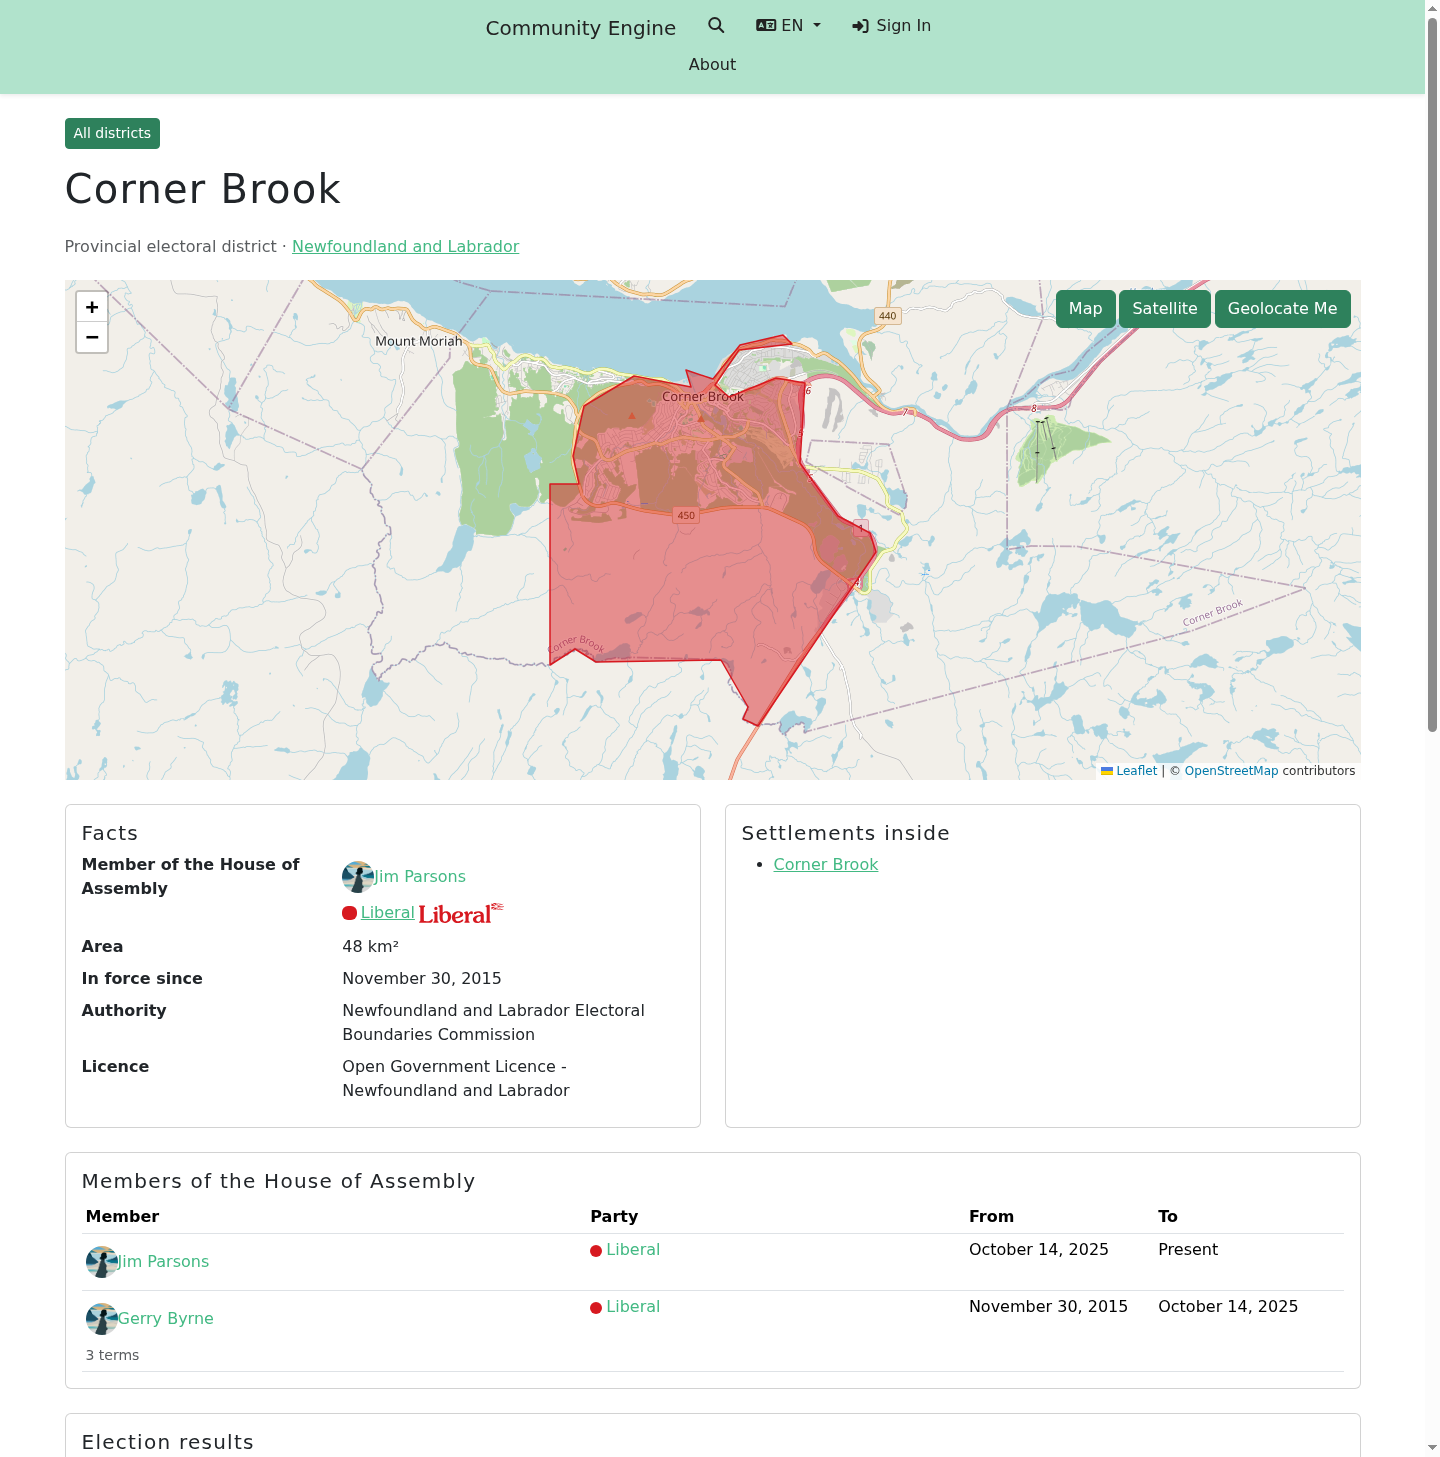
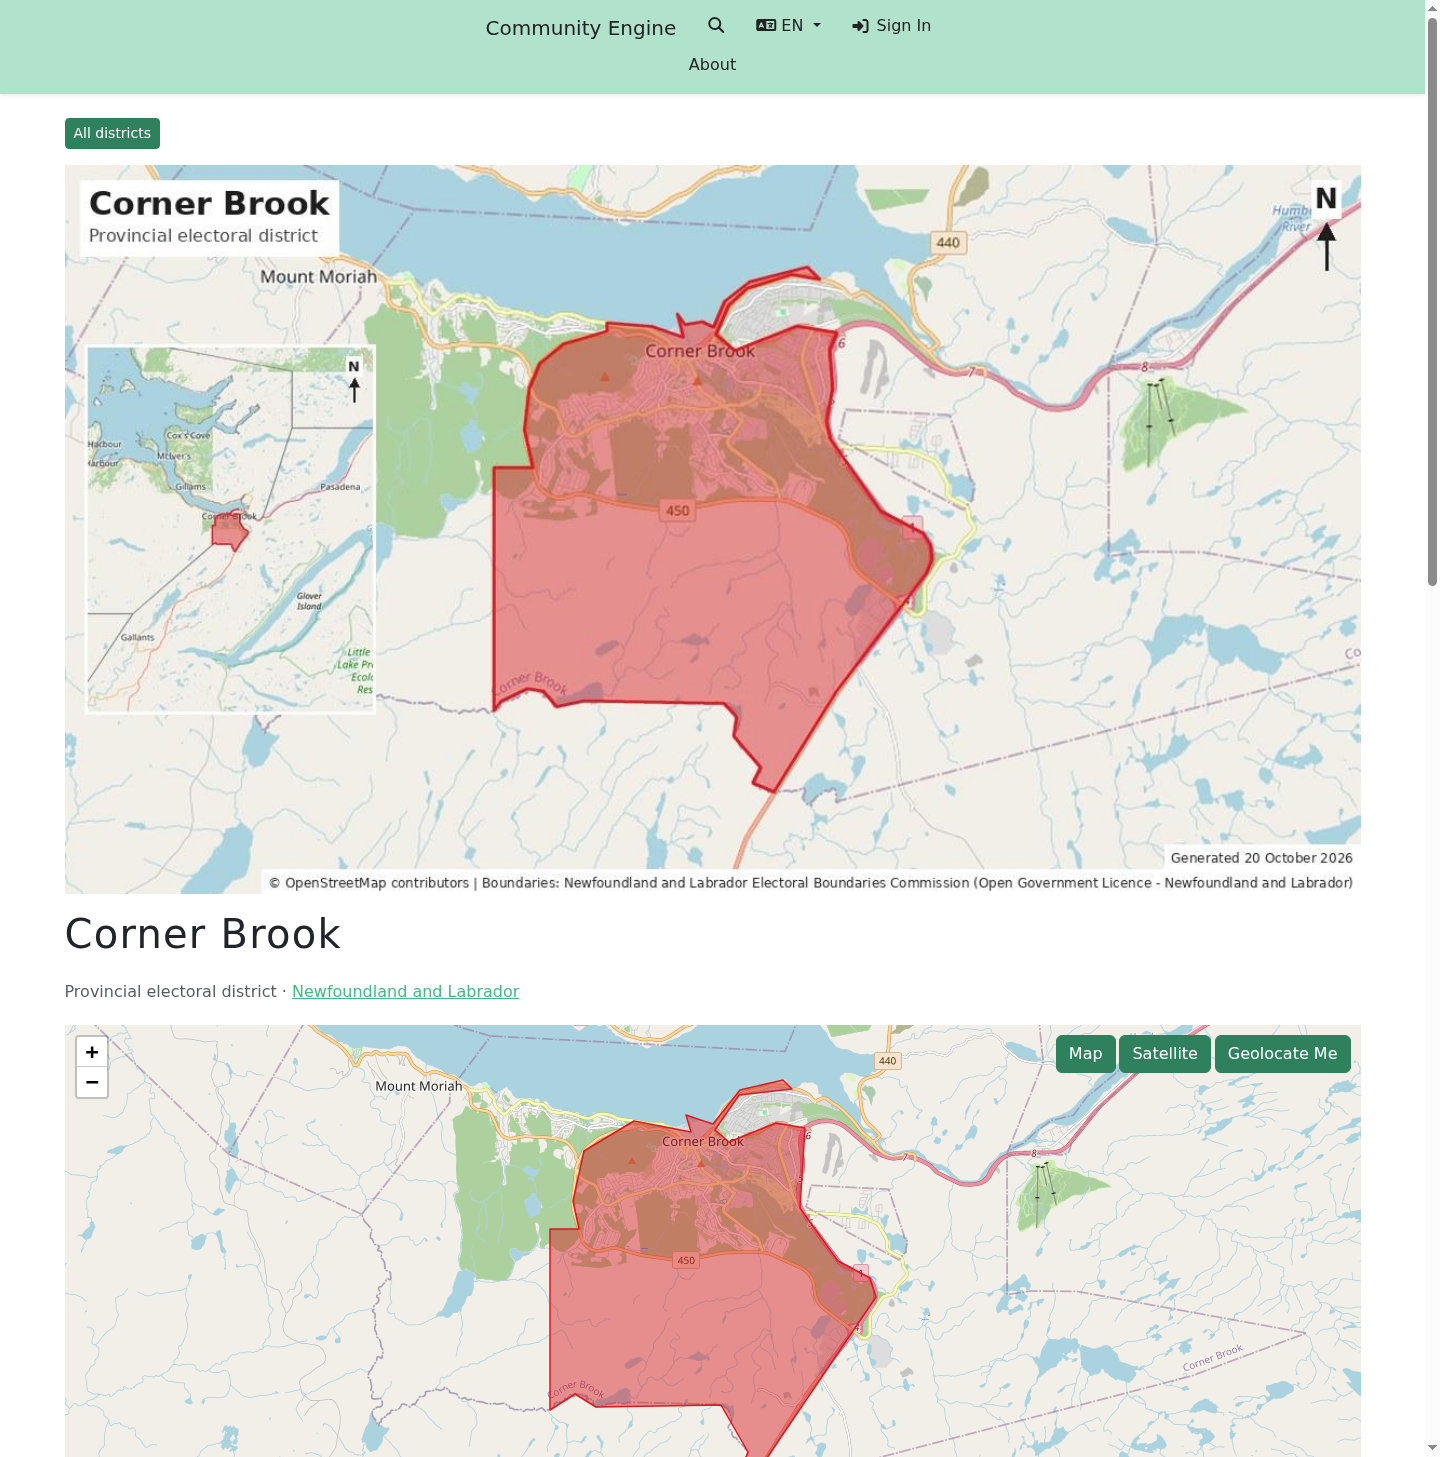
feat(districts): generated cover images with default fallback, cover area and card image
District show gets a cover area, the card uses the same image, and a default_cover_image attachment keeps the generated map when a custom cover is cleared. Districts with no cover show no placeholder image. Attachments use the CE cleanup concern; rake tasks export generator inputs and attach rendered covers (dry run by default).

diff --git a/app/assets/stylesheets/district_covers.scss b/app/assets/stylesheets/district_covers.scss
@@ -1,0 +1,9 @@
+/* District covers are 16:9 maps: show them whole instead of CE's 4:1 / 3:2 crops. */
+#district-cover.cover-image-container {
+  height: auto;
+  aspect-ratio: 16 / 9;
+}
+
+#districts-list .card-img-top {
+  aspect-ratio: 16 / 9;
+}

diff --git a/app/services/newfoundland_labrador_online/geography/district_cover_inputs.rb b/app/services/newfoundland_labrador_online/geography/district_cover_inputs.rb
@@ -1,0 +1,66 @@
+# frozen_string_literal: true
+
+module NewfoundlandLabradorOnline
+  module Geography
+    # Everything the cover generator (management-tool scripts/district_cover_images.py) needs per provincial
+    # district: simplified boundary, source credit, and the colour of the sitting member's current party (so a floor
+    # crossing shows), falling back to the party elected in the latest election when the seat is vacant.
+    class DistrictCoverInputs
+      SIMPLIFY_DEGREES = 0.0005
+
+      def self.call
+        new.call
+      end
+
+      def call
+        ProvincialElectoralDistrict.find_each.filter_map { |district| entry(district) }.to_h
+      end
+
+      private
+
+      def entry(district)
+        version = district.current_version
+        return unless version&.boundary
+
+        [district.name, { id: district.id, slug: district.identifier, kind: kind, color: color_for(district),
+                          authority: version.authority, license: version.license, geometry: geometry(version) }]
+      end
+
+      def kind
+        I18n.t('newfoundland_labrador_online.districts.show.kind', locale: :en)
+      end
+
+      def color_for(district)
+        party = sitting_party(district) || elected_party(district)
+        party ? party.display_color : PoliticalParty::FALLBACK_COLOR
+      end
+
+      def sitting_party(district)
+        sitting_parties[district.id]
+      end
+
+      def sitting_parties
+        @sitting_parties ||= Civic::Roster.current_holdings.to_h { |holding| [holding.region_id, holding.party_on] }
+      end
+
+      def elected_party(district)
+        return unless latest_election
+
+        Candidacy.joins(:electoral_contest, :mandate)
+                 .where(electoral_contests: { election_id: latest_election.id, region_id: district.id })
+                 .first&.political_party
+      end
+
+      def latest_election
+        @latest_election ||= Election.where(jurisdiction: 'provincial').order(:held_on).last
+      end
+
+      def geometry(version)
+        conn = ActiveRecord::Base.connection
+        sql = "SELECT ST_AsGeoJSON(ST_SimplifyPreserveTopology(#{conn.quote(version.boundary.as_text)}::geometry, " \
+              "#{SIMPLIFY_DEGREES}))"
+        JSON.parse(conn.select_value(sql))
+      end
+    end
+  end
+end

diff --git a/spec/services/newfoundland_labrador_online/geography/district_cover_spec.rb b/spec/services/newfoundland_labrador_online/geography/district_cover_spec.rb
@@ -1,0 +1,57 @@
+# frozen_string_literal: true
+
+require 'rails_helper'
+
+RSpec.describe NewfoundlandLabradorOnline::Geography::DistrictCover do
+  include RequestSpecHelper
+
+  let(:path) { Rails.root.join('spec/fixtures/nl_regions/two_districts.geojson') }
+  let(:district) { NewfoundlandLabradorOnline::ProvincialElectoralDistrict.find_by!(identifier: 'nl-ped-corner-brook') }
+  let(:record) { district.reload }
+  let(:jpeg) { Rails.root.join('spec/fixtures/files/cover.jpg') }
+
+  def attach(bytes: 'generated-bytes', filename: 'nl-ped-corner-brook.jpg')
+    described_class.call(region: district, io: StringIO.new(bytes), filename:)
+  end
+
+  def upload_custom
+    record.cover_image.attach(io: StringIO.new('custom-bytes'), filename: 'mine.jpg', content_type: 'image/jpeg')
+    record.save!
+  end
+
+  before do
+    configure_host_platform
+    NewfoundlandLabradorOnline::Geography::ProvincialDistrictLoader.new(path:).call
+  end
+
+  it 'stores the image as the default and as the cover, marked generated', :aggregate_failures do
+    expect(attach.status).to eq(:attached)
+    expect(record.cover_image.download).to eq('generated-bytes')
+    expect(record.default_cover_image.download).to eq('generated-bytes')
+    expect(record).to be_generated_cover
+  end
+
+  it 'replaces an earlier generated cover' do
+    attach(bytes: 'old')
+    attach(bytes: 'new')
+
+    expect(record.cover_image.download).to eq('new')
+  end
+
+  it 'never replaces an uploaded cover but refreshes the default', :aggregate_failures do
+    upload_custom
+
+    expect(attach.status).to eq(:kept_custom)
+    expect(record.cover_image.download).to eq('custom-bytes')
+    expect(record.default_cover_image.download).to eq('generated-bytes')
+  end
+
+  it 'restores the default when the uploaded cover is removed', :aggregate_failures do
+    attach
+    upload_custom
+    record.update!(remove_cover_image: '1')
+
+    expect(record.reload.cover_image.download).to eq('generated-bytes')
+    expect(record).to be_generated_cover
+  end
+end

diff --git a/spec/docs_screenshots/districts_spec.rb b/spec/docs_screenshots/districts_spec.rb
@@ -23,6 +23,15 @@ RSpec.describe 'Documentation screenshots for electoral districts', :js, type: :
     settlement = create(:geography_settlement, identifier: 'corner-brook', name: 'Corner Brook')
     space = BetterTogether::Geography::Space.create!(latitude: 48.95, longitude: -57.95)
     BetterTogether::Geography::GeospatialSpace.create!(geospatial: settlement, space:)
+    %w[nl-ped-corner-brook nl-ped-st-john-s-centre].each { |identifier| attach_cover(identifier) }
+  end
+
+  def attach_cover(identifier)
+    district = NewfoundlandLabradorOnline::ProvincialElectoralDistrict.find_by!(identifier:)
+    file = Rails.root.join("spec/fixtures/covers/#{identifier}.jpg")
+    file.open('rb') do |io|
+      NewfoundlandLabradorOnline::Geography::DistrictCover.call(region: district, io:, filename: file.basename.to_s)
+    end
   end
 
   def captured(slug, callouts)
@@ -41,8 +50,8 @@ RSpec.describe 'Documentation screenshots for electoral districts', :js, type: :
 
   it 'captures the Corner Brook district page' do
     visit "/#{locale}/e/districts/provincial/nl/nl-ped-corner-brook"
-    callouts = %w[#district-map-section #district-member #district-facts #district-settlements #district-members
-                  #district-results #district-history].map do |selector|
+    callouts = %w[#district-cover #district-map-section #district-member #district-facts #district-settlements
+                  #district-members #district-results #district-history].map do |selector|
       { selector:, title: selector.delete_prefix('#district-').tr('-', ' ') }
     end
 

diff --git a/app/models/concerns/newfoundland_labrador_online/default_cover_image.rb b/app/models/concerns/newfoundland_labrador_online/default_cover_image.rb
@@ -1,0 +1,41 @@
+# frozen_string_literal: true
+
+module NewfoundlandLabradorOnline
+  # Keeps a generated cover image available as a fallback: when the record's cover is cleared (or replaced and then
+  # removed), the stored default is attached again as the cover. Generated covers are marked in the blob metadata so
+  # callers can tell them from uploads. Include after the cover attachment is declared.
+  module DefaultCoverImage
+    extend ActiveSupport::Concern
+
+    included do
+      has_one_attached :default_cover_image
+      # After every attachment is declared, so CE's cleanup covers all of them (cover_image must already exist).
+      include BetterTogether::RemoveableAttachment
+
+      after_save :restore_default_cover_image
+    end
+
+    # The card shows the cover whole, so use the larger cover variant (CE's card variant is a 4:1 limit).
+    def optimized_card_image = optimized_cover_image
+
+    def generated_cover?
+      cover_image.attached? && cover_image.blob.metadata['generated'] == true
+    end
+
+    private
+
+    def restore_default_cover_image
+      return if cover_image.attached? || !default_cover_image.attached?
+
+      self.remove_cover_image = nil
+      cover_image.attach(copy_of(default_cover_image.blob))
+    end
+
+    def copy_of(blob)
+      ActiveStorage::Blob.create_and_upload!(
+        io: StringIO.new(blob.download), filename: blob.filename.to_s, content_type: blob.content_type,
+        metadata: { 'generated' => true }
+      )
+    end
+  end
+end

diff --git a/spec/dom_contracts/district_page_spec.rb b/spec/dom_contracts/district_page_spec.rb
@@ -30,6 +30,31 @@ RSpec.describe 'Electoral district page DOM contract', type: :request do
     BetterTogether::Geography::GeospatialSpace.create!(geospatial: settlement, space:)
   end
 
+  def attach_generated_cover(name)
+    district = NewfoundlandLabradorOnline::ProvincialElectoralDistrict.find_by!(identifier: "nl-ped-#{name}")
+    jpeg = Vips::Image.black(40, 24).write_to_buffer('.jpg')
+    NewfoundlandLabradorOnline::Geography::DistrictCover.call(region: district, io: StringIO.new(jpeg),
+                                                              filename: "nl-ped-#{name}.jpg")
+  end
+
+  it 'shows the cover above the title and as the card image once one is attached', :aggregate_failures do
+    attach_generated_cover('corner-brook')
+
+    get "/#{locale}/e/districts/provincial/nl/nl-ped-corner-brook"
+    expect(response.body).to include('id="district-cover"', 'cover-image')
+
+    get "/#{locale}/e/districts/provincial/nl"
+    expect(response.body).to match(/district-card.*?card-img-top/m)
+  end
+
+  it 'leaves the cover area and card image out until a cover is attached', :aggregate_failures do
+    get "/#{locale}/e/districts/provincial/nl/nl-ped-corner-brook"
+    expect(response.body).not_to include('id="district-cover"')
+
+    get "/#{locale}/e/districts/provincial/nl"
+    expect(response.body).not_to include('card-img-top')
+  end
+
   it 'exposes the index identifiers', :aggregate_failures do
     get "/#{locale}/e/districts/provincial/nl"
 

diff --git a/spec/services/newfoundland_labrador_online/geography/district_cover_inputs_spec.rb b/spec/services/newfoundland_labrador_online/geography/district_cover_inputs_spec.rb
@@ -1,0 +1,32 @@
+# frozen_string_literal: true
+
+require 'rails_helper'
+
+RSpec.describe NewfoundlandLabradorOnline::Geography::DistrictCoverInputs do
+  include RequestSpecHelper
+
+  let(:path) { Rails.root.join('spec/fixtures/nl_regions/two_districts.geojson') }
+  let(:fallback) { NewfoundlandLabradorOnline::PoliticalParty::FALLBACK_COLOR }
+
+  before do
+    configure_host_platform
+    NewfoundlandLabradorOnline::Geography::ProvincialDistrictLoader.new(path:).call
+  end
+
+  it 'describes each district: geometry, credit, fallback colour with no party', :aggregate_failures do
+    entry = described_class.call.fetch('Corner Brook')
+
+    expect(entry).to include(slug: 'nl-ped-corner-brook', color: fallback, kind: 'Provincial electoral district')
+    expect(entry[:geometry]['type']).to include('Polygon')
+    expect(entry[:authority]).to be_present
+  end
+
+  it 'colours a district by the sitting member\'s current party, not the party elected' do
+    region = NewfoundlandLabradorOnline::ProvincialElectoralDistrict.find_by!(identifier: 'nl-ped-corner-brook')
+    independent = NewfoundlandLabradorOnline::PoliticalParty.new(color: nil)
+    holding = instance_double(NewfoundlandLabradorOnline::Civic::Holding, region_id: region.id, party_on: independent)
+    allow(NewfoundlandLabradorOnline::Civic::Roster).to receive(:current_holdings).and_return([holding])
+
+    expect(described_class.call.fetch('Corner Brook')[:color]).to eq(fallback)
+  end
+end

diff --git a/app/services/newfoundland_labrador_online/geography/district_cover.rb b/app/services/newfoundland_labrador_online/geography/district_cover.rb
@@ -1,0 +1,42 @@
+# frozen_string_literal: true
+
+module NewfoundlandLabradorOnline
+  module Geography
+    # Attaches a generated map image to a district: always as the stored default, and as the cover
+    # (and so the card image) unless someone has uploaded their own, which is never replaced.
+    class DistrictCover
+      Result = Struct.new(:region, :status, keyword_init: true)
+
+      def self.call(region:, io:, filename:)
+        new(region:, io:, filename:).call
+      end
+
+      def initialize(region:, io:, filename:)
+        @region = region
+        @bytes = io.read
+        @filename = filename
+      end
+
+      def call
+        @region.default_cover_image.attach(blob)
+        return keep_custom if @region.cover_image.attached? && !@region.generated_cover?
+
+        @region.cover_image.attach(blob)
+        @region.save!
+        Result.new(region: @region, status: :attached)
+      end
+
+      private
+
+      def keep_custom
+        @region.save!
+        Result.new(region: @region, status: :kept_custom)
+      end
+
+      def blob
+        ActiveStorage::Blob.create_and_upload!(io: StringIO.new(@bytes), filename: @filename,
+                                               content_type: 'image/jpeg', metadata: { 'generated' => true })
+      end
+    end
+  end
+end

diff --git a/spec/models/newfoundland_labrador_online/attachment_cleanup_spec.rb b/spec/models/newfoundland_labrador_online/attachment_cleanup_spec.rb
@@ -1,0 +1,29 @@
+# frozen_string_literal: true
+
+require 'rails_helper'
+
+# Every NLO model that declares a has_one attachment must use CE's cleanup concern, so removal flags and purge
+# methods exist for each attachment.
+RSpec.describe 'NLO attachment cleanup' do # rubocop:disable RSpec/DescribeClass
+  before { Rails.application.eager_load! }
+
+  let(:models) do
+    ActiveRecord::Base.descendants.select { |model| model.name.to_s.start_with?('NewfoundlandLabradorOnline::') }
+  end
+  let(:attachments) do
+    models.flat_map do |model|
+      model.reflect_on_all_attachments.select { |reflection| reflection.macro == :has_one_attached }
+           .map { |reflection| [model, reflection.name] }
+    end
+  end
+
+  it 'finds the attachments to check' do
+    expect(attachments).to include([NewfoundlandLabradorOnline::PoliticalParty, :logo])
+  end
+
+  it 'has a removal flag and purge method for every attachment', :aggregate_failures do
+    attachments.each do |model, name|
+      expect(model.new).to respond_to(:"remove_#{name}", :"purge_#{name}"), "#{model} #{name} lacks cleanup"
+    end
+  end
+end

diff --git a/app/models/newfoundland_labrador_online/provincial_electoral_district.rb b/app/models/newfoundland_labrador_online/provincial_electoral_district.rb
@@ -9,6 +9,7 @@ module NewfoundlandLabradorOnline
     IDENTIFIER_PREFIX = 'nl-ped-'
 
     attachable_cover_image
+    include NewfoundlandLabradorOnline::DefaultCoverImage
 
     def self.identifier_for_name(name)
       "#{IDENTIFIER_PREFIX}#{name.parameterize}"

diff --git a/docs/district-cover-images.md b/docs/district-cover-images.md
@@ -102,3 +102,27 @@ the CE image stack; confirm which) with a small tile fetcher:
 - Which image library does the NLO image support (vips vs mini_magick), and does CE expose a separate card image?
 - For huge, sparse districts, should we add an inset locator map of the province?
 - Should an editor-uploaded cover always win (proposed yes)?
+
+## Decisions (2026-10-20)
+
+- Boundary style matches the party-branded Leaflet overlay: party colour stroke, 0.45 fill.
+- Party comes from the latest provincial election: the elected candidacy's party in that district. Fallback colour `#6c757d` when none.
+- The generated cover is attached to the district's own `cover_image` (the attachment a manual upload uses, so an upload replaces it and the card image follows).
+- A second attachment, `default_cover_image`, keeps the generated image so it can be restored when a custom cover is cleared.
+- Image library: Pillow, as in the ship tracker scripts (`scripts/traffic_bay_map.py`).
+- Locator inset: province overview bottom-left, with district filled in party colour. Variants prototyped: `inset-map` (OSM tiles) and `inset-outline` (vector only). Prototype files are in `tmp/district-covers/v2/`.
+
+## Built (2026-10-20)
+
+Pipeline, run on bts-0 with the NLO app only touched at the two ends:
+
+1. `rake nlo:regions:cover_inputs OUT=tmp/district-covers/inputs.json` writes boundaries, credit and colour per district.
+   Colour is the sitting member's current party (Independent and vacant seats are grey), as on the live map.
+2. `scripts/district_cover_images.py --input inputs.json --out DIR [--only NAME ...]` (management-tool, Pillow) writes
+   one `nl-ped-<slug>.jpg` per district (1200x675, under 700 KB) plus `manifest.json`. OSM tiles are cached under
+   `tmp/district-cover-tiles` and fetched one per second with a named User-Agent; run it on a few districts at a time.
+3. `rake nlo:regions:attach_covers DIR=... [WRITE=1]` (dry run without WRITE) attaches each JPEG to the district's
+   district as `default_cover_image`, and as `cover_image` unless someone uploaded their own.
+
+Clearing the cover on a district restores the stored default (`NewfoundlandLabradorOnline::DefaultCoverImage`).
+The district page shows the cover above the title (like the settlement page) and the district cards use it as their card image.
